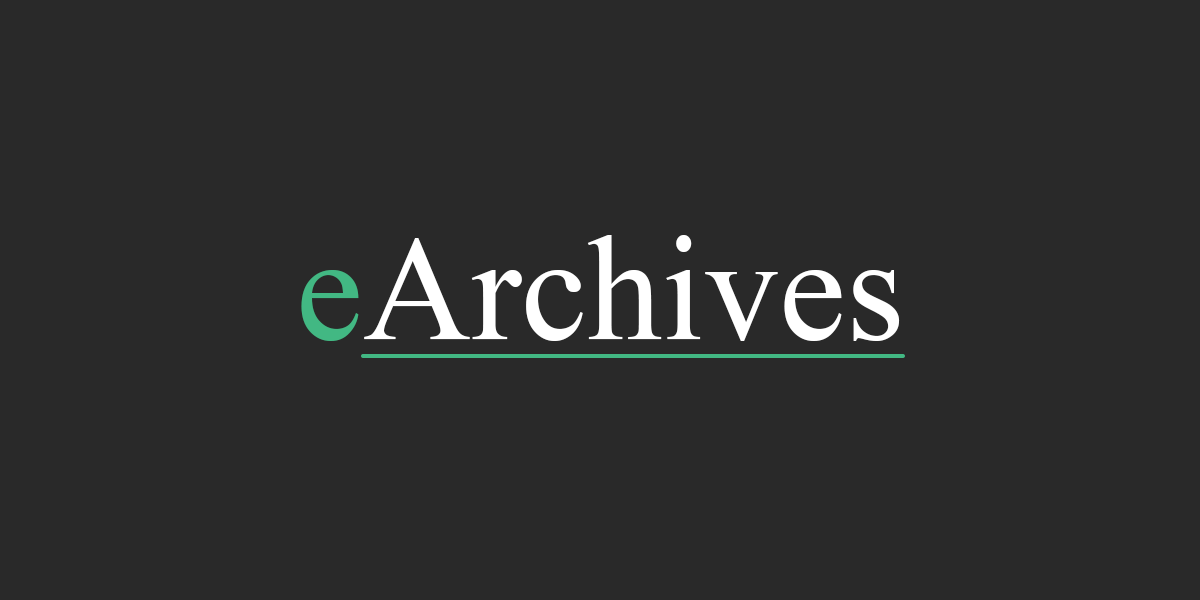
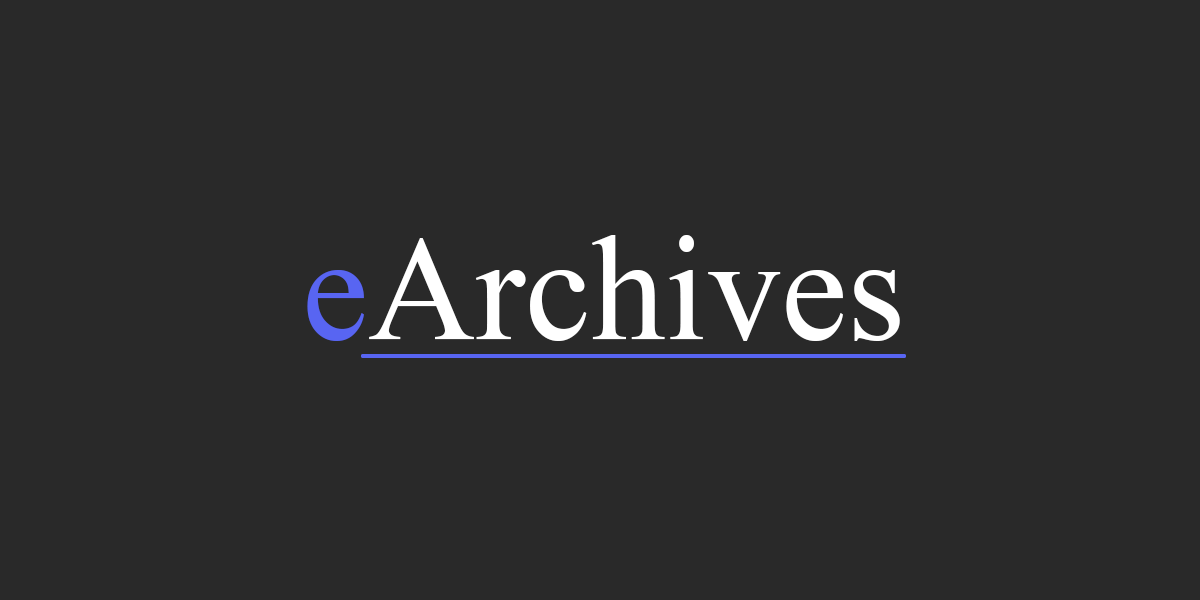
...

Changed region(s): [[0.2467, 0.39, 0.7708, 0.6], [0.555, 0.39, 0.5858, 0.42]]

diff --git a/front/static/output.css b/front/static/output.css
@@ -660,28 +660,8 @@ video {
   margin-bottom: 0.5rem;
 }
 
-.mb-3{
-  margin-bottom: 0.75rem;
-}
-
-.ml-2{
-  margin-left: 0.5rem;
-}
-
-.mt-3{
-  margin-top: 0.75rem;
-}
-
-.mr-2{
-  margin-right: 0.5rem;
-}
-
-.mt-32{
-  margin-top: 8rem;
-}
-
-.mt-10{
-  margin-top: 2.5rem;
+.mb-1{
+  margin-bottom: 0.25rem;
 }
 
 .ml-4{
@@ -700,6 +680,10 @@ video {
   margin-bottom: 1.5rem;
 }
 
+.mr-2{
+  margin-right: 0.5rem;
+}
+
 .mt-16{
   margin-top: 4rem;
 }
@@ -716,12 +700,12 @@ video {
   margin-right: 0px;
 }
 
-.mt-0{
-  margin-top: 0px;
+.ml-2{
+  margin-left: 0.5rem;
 }
 
-.mb-1{
-  margin-bottom: 0.25rem;
+.mt-0{
+  margin-top: 0px;
 }
 
 .block{
@@ -768,18 +752,6 @@ video {
   height: 1.25rem;
 }
 
-.h-2{
-  height: 0.5rem;
-}
-
-.h-48{
-  height: 12rem;
-}
-
-.h-36{
-  height: 9rem;
-}
-
 .h-40{
   height: 10rem;
 }
@@ -796,8 +768,8 @@ video {
   height: auto;
 }
 
-.h-4{
-  height: 1rem;
+.h-36{
+  height: 9rem;
 }
 
 .min-h-\[100vh\]{
@@ -816,20 +788,16 @@ video {
   width: 1.5rem;
 }
 
-.w-5{
-  width: 1.25rem;
-}
-
-.w-1\/2{
-  width: 50%;
-}
-
 .w-44{
   width: 11rem;
 }
 
 .w-20{
   width: 5rem;
+}
+
+.w-1\/2{
+  width: 50%;
 }
 
 .w-auto{
@@ -865,10 +833,6 @@ video {
   cursor: default;
 }
 
-.resize{
-  resize: both;
-}
-
 .grid-flow-row-dense{
   grid-auto-flow: row dense;
 }
@@ -885,12 +849,12 @@ video {
   grid-template-columns: repeat(3, minmax(0, 1fr));
 }
 
-.grid-cols-2{
-  grid-template-columns: repeat(2, minmax(0, 1fr));
-}
-
 .grid-cols-5{
   grid-template-columns: repeat(5, minmax(0, 1fr));
+}
+
+.grid-cols-2{
+  grid-template-columns: repeat(2, minmax(0, 1fr));
 }
 
 .flex-row{
@@ -903,10 +867,6 @@ video {
 
 .flex-wrap{
   flex-wrap: wrap;
-}
-
-.place-items-center{
-  place-items: center;
 }
 
 .items-center{
@@ -974,10 +934,6 @@ video {
   border-radius: 9999px;
 }
 
-.rounded-xl{
-  border-radius: 0.75rem;
-}
-
 .rounded-b{
   border-bottom-right-radius: 0.25rem;
   border-bottom-left-radius: 0.25rem;
@@ -997,10 +953,6 @@ video {
 
 .border-r-4{
   border-right-width: 4px;
-}
-
-.border-none{
-  border-style: none;
 }
 
 .border-\[\#1a1a1a\]{
@@ -1045,14 +997,6 @@ video {
   background-color: rgb(26 26 26 / var(--tw-bg-opacity));
 }
 
-.bg-\[\]{
-  background-color: ;
-}
-
-.bg-\[\#\]{
-  background-color: #;
-}
-
 .object-cover{
   -o-object-fit: cover;
      object-fit: cover;
@@ -1064,10 +1008,6 @@ video {
 
 .p-4{
   padding: 1rem;
-}
-
-.p-2\.5{
-  padding: 0.625rem;
 }
 
 .p-\[0\.1px\]{
@@ -1102,11 +1042,6 @@ video {
 .py-4{
   padding-top: 1rem;
   padding-bottom: 1rem;
-}
-
-.px-5{
-  padding-left: 1.25rem;
-  padding-right: 1.25rem;
 }
 
 .px-10{
@@ -1173,10 +1108,6 @@ video {
   text-align: right;
 }
 
-.align-middle{
-  vertical-align: middle;
-}
-
 .text-sm{
   font-size: 0.875rem;
   line-height: 1.25rem;
@@ -1197,14 +1128,14 @@ video {
   line-height: 2rem;
 }
 
+.text-5xl{
+  font-size: 3rem;
+  line-height: 1;
+}
+
 .text-base{
   font-size: 1rem;
   line-height: 1.5rem;
-}
-
-.text-xs{
-  font-size: 0.75rem;
-  line-height: 1rem;
 }
 
 .text-3xl{
@@ -1212,9 +1143,9 @@ video {
   line-height: 2.25rem;
 }
 
-.text-5xl{
-  font-size: 3rem;
-  line-height: 1;
+.text-xs{
+  font-size: 0.75rem;
+  line-height: 1rem;
 }
 
 .font-semibold{
@@ -1326,12 +1257,6 @@ video {
   filter: var(--tw-blur) var(--tw-brightness) var(--tw-contrast) var(--tw-grayscale) var(--tw-hue-rotate) var(--tw-invert) var(--tw-saturate) var(--tw-sepia) var(--tw-drop-shadow);
 }
 
-.transition-opacity{
-  transition-property: opacity;
-  transition-timing-function: cubic-bezier(0.4, 0, 0.2, 1);
-  transition-duration: 150ms;
-}
-
 .duration-300{
   transition-duration: 300ms;
 }
@@ -1341,8 +1266,7 @@ video {
 }
 
 :root {
-  --old-accent: #42b883;
-  --accent: #008251;
+  --accent: #5865f2;
 }
 
 *:focus {
@@ -1433,35 +1357,21 @@ code {
   }
 }
 
-.checked\:bg-\[\#42b883\]:checked{
-  --tw-bg-opacity: 1;
-  background-color: rgb(66 184 131 / var(--tw-bg-opacity));
-}
-
 .hover\:bg-\[\#1d1d1d\]:hover{
   --tw-bg-opacity: 1;
   background-color: rgb(29 29 29 / var(--tw-bg-opacity));
-}
-
-.hover\:text-\[\#42b883\]:hover{
-  --tw-text-opacity: 1;
-  color: rgb(66 184 131 / var(--tw-text-opacity));
 }
 
 .hover\:opacity-75:hover{
   opacity: 0.75;
 }
 
-.hover\:opacity-70:hover{
-  opacity: 0.7;
-}
-
 .hover\:opacity-50:hover{
   opacity: 0.5;
 }
 
-.hover\:outline-\[\#008251\]:hover{
-  outline-color: #008251;
+.hover\:outline-\[\#5865f2\]:hover{
+  outline-color: #5865f2;
 }
 
 .focus\:border-transparent:focus{
@@ -1471,11 +1381,6 @@ code {
 .focus\:border-b-\[\#008251\]:focus{
   --tw-border-opacity: 1;
   border-bottom-color: rgb(0 130 81 / var(--tw-border-opacity));
-}
-
-.focus\:outline-none:focus{
-  outline: 2px solid transparent;
-  outline-offset: 2px;
 }
 
 .focus\:ring-transparent:focus{
@@ -1534,12 +1439,12 @@ code {
     width: auto;
   }
 
-  .md\:grid-cols-4{
-    grid-template-columns: repeat(4, minmax(0, 1fr));
-  }
-
   .md\:grid-cols-2{
     grid-template-columns: repeat(2, minmax(0, 1fr));
+  }
+
+  .md\:grid-cols-4{
+    grid-template-columns: repeat(4, minmax(0, 1fr));
   }
 
   .md\:grid-cols-3{
@@ -1567,16 +1472,6 @@ code {
   .md\:px-2{
     padding-left: 0.5rem;
     padding-right: 0.5rem;
-  }
-
-  .md\:px-0{
-    padding-left: 0px;
-    padding-right: 0px;
-  }
-
-  .md\:px-10{
-    padding-left: 2.5rem;
-    padding-right: 2.5rem;
   }
 
   .md\:px-8{

diff --git a/front/static/main.css b/front/static/main.css
@@ -10,8 +10,7 @@
 @tailwind utilities;
 
 :root {
-    --old-accent: #42b883;
-    --accent: #008251;
+    --accent: #5865f2;
 }
 
 *:focus {
